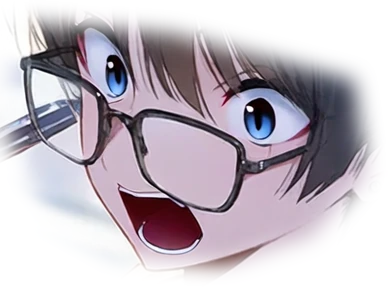
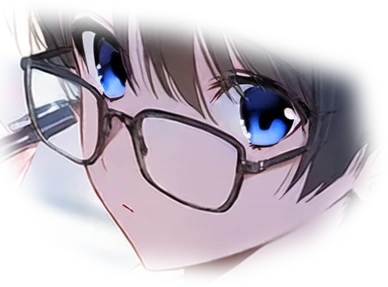
수현 표정 40개 전부 잔잔하게 다시 만듦 (칫솔 색 바뀐 것·창백한 것 다시 뽑음)
Claude-Session: https://claude.ai/code/session_01B8pQbEtRSQUAPjrPy7M14y

diff --git a/sw.js b/sw.js
@@ -1,5 +1,5 @@
 // 한울아파트 — 서비스 워커. 앱 파일을 바꿔서 올릴 때마다 V를 1 올린다.
-const V = 'hanul-v21';
+const V = 'hanul-v22';
 const SHELL = ['./', 'index.html', 'style.css', 'app.js', 'features.js', 'study.js', 'plan.js', 'music.js', 'device.js', 'idle.js', 'voice.js', 'motion.js', 'face.js', 'data/faces.json', 'plan.html', 'plan.json', 'data/characters.json', 'manifest.json', 'icon-192.png', 'icon-512.png', 'assets/ui/elevator.webp', 'assets/ui/elevator-wide.webp'];
 self.addEventListener('install', e => { e.waitUntil(caches.open(V).then(c => c.addAll(SHELL)).catch(() => {})); self.skipWaiting(); });
 self.addEventListener('activate', e => { e.waitUntil(caches.keys().then(ks => Promise.all(ks.filter(k => k !== V).map(k => caches.delete(k)))).then(() => self.clients.claim())); });

diff --git a/tools/expr.py b/tools/expr.py
@@ -30,7 +30,7 @@ EXPR = {
 # 얼굴 위치 (잘라 낸 칸 안의 좌표). face: 눈썹~턱 다각형, eyes: 눈·눈썹 다각형. blink 는 eyes 만 다시 그린다
 FACES = {
     'ns-morning': dict(
-        img='assets/ns/scene/morning.webp', prompt='characters/prompts/ns-scene-morning.json', crop=(120, 200), hint='toothbrush in mouth',
+        img='assets/ns/scene/morning.webp', prompt='characters/prompts/ns-scene-morning.json', crop=(120, 200), hint='blue toothbrush in mouth, blue eyes',
         eyes=[(120, 300), (250, 240), (470, 170), (500, 280), (270, 370), (125, 385)],
         face=[(118, 300), (250, 245), (300, 238), (470, 178), (500, 275), (440, 330), (400, 420), (335, 470), (240, 455), (175, 420), (125, 385)],
         vibe=None,  # 인페인트에 참고 그림을 넣으면 노벨AI가 500 오류를 낸다
